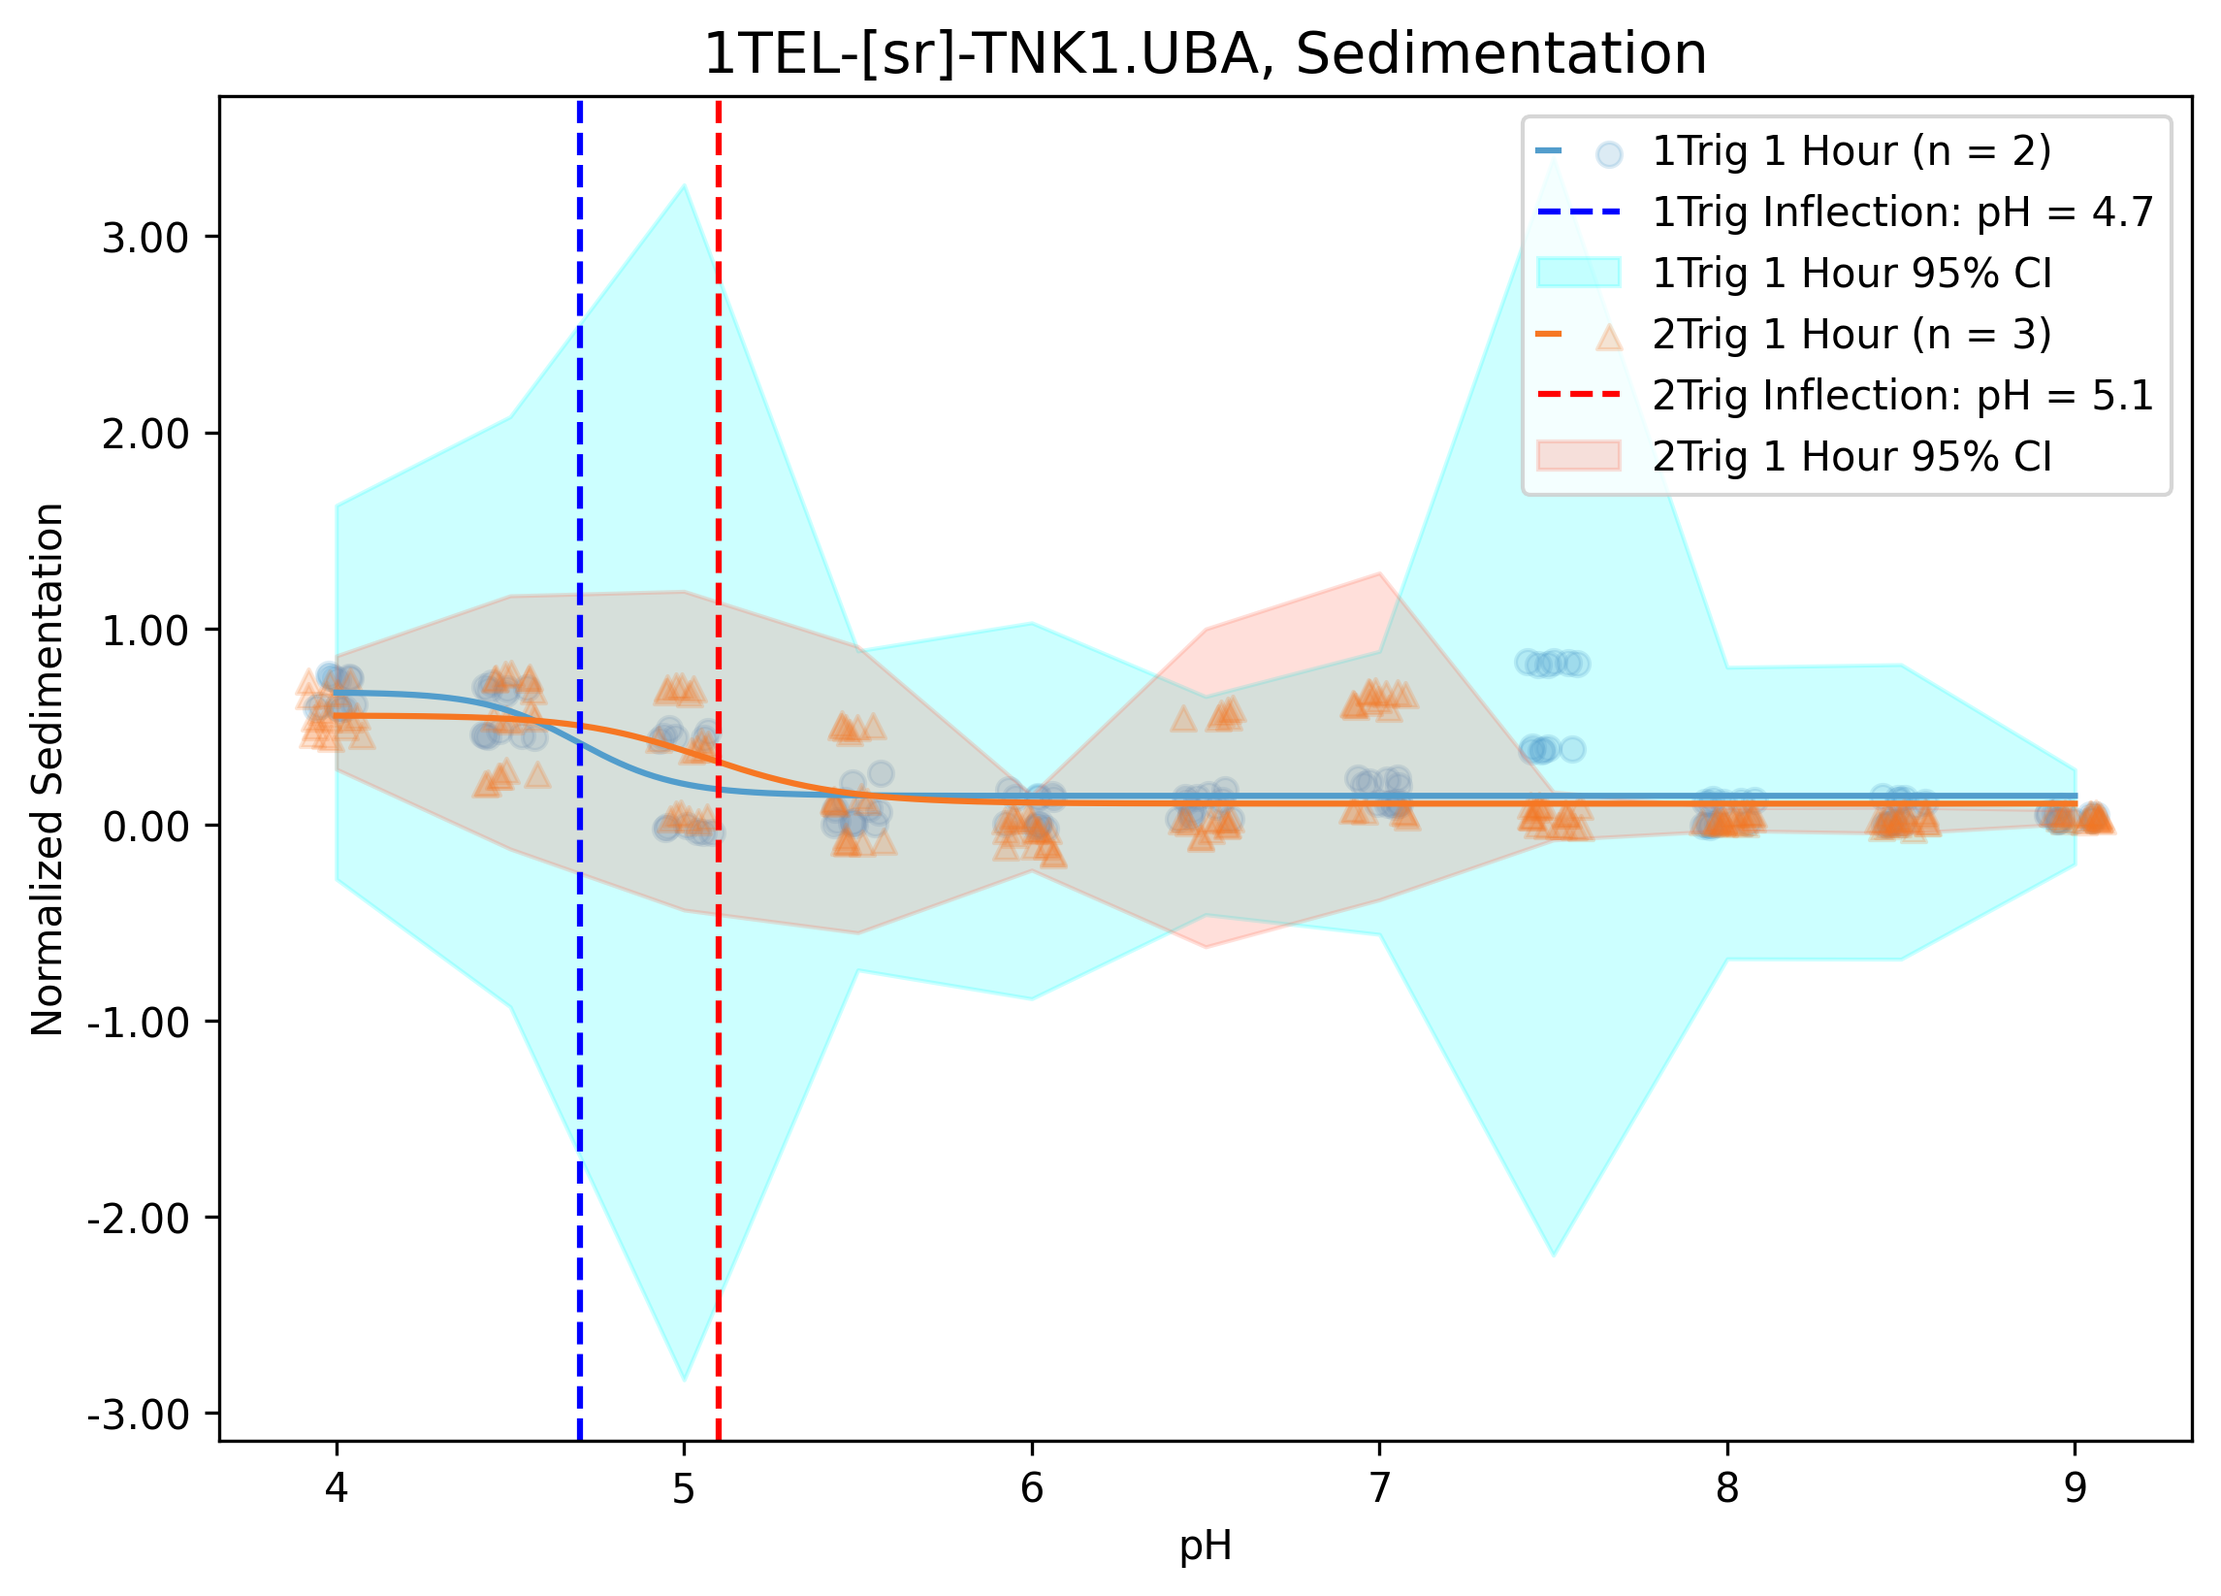
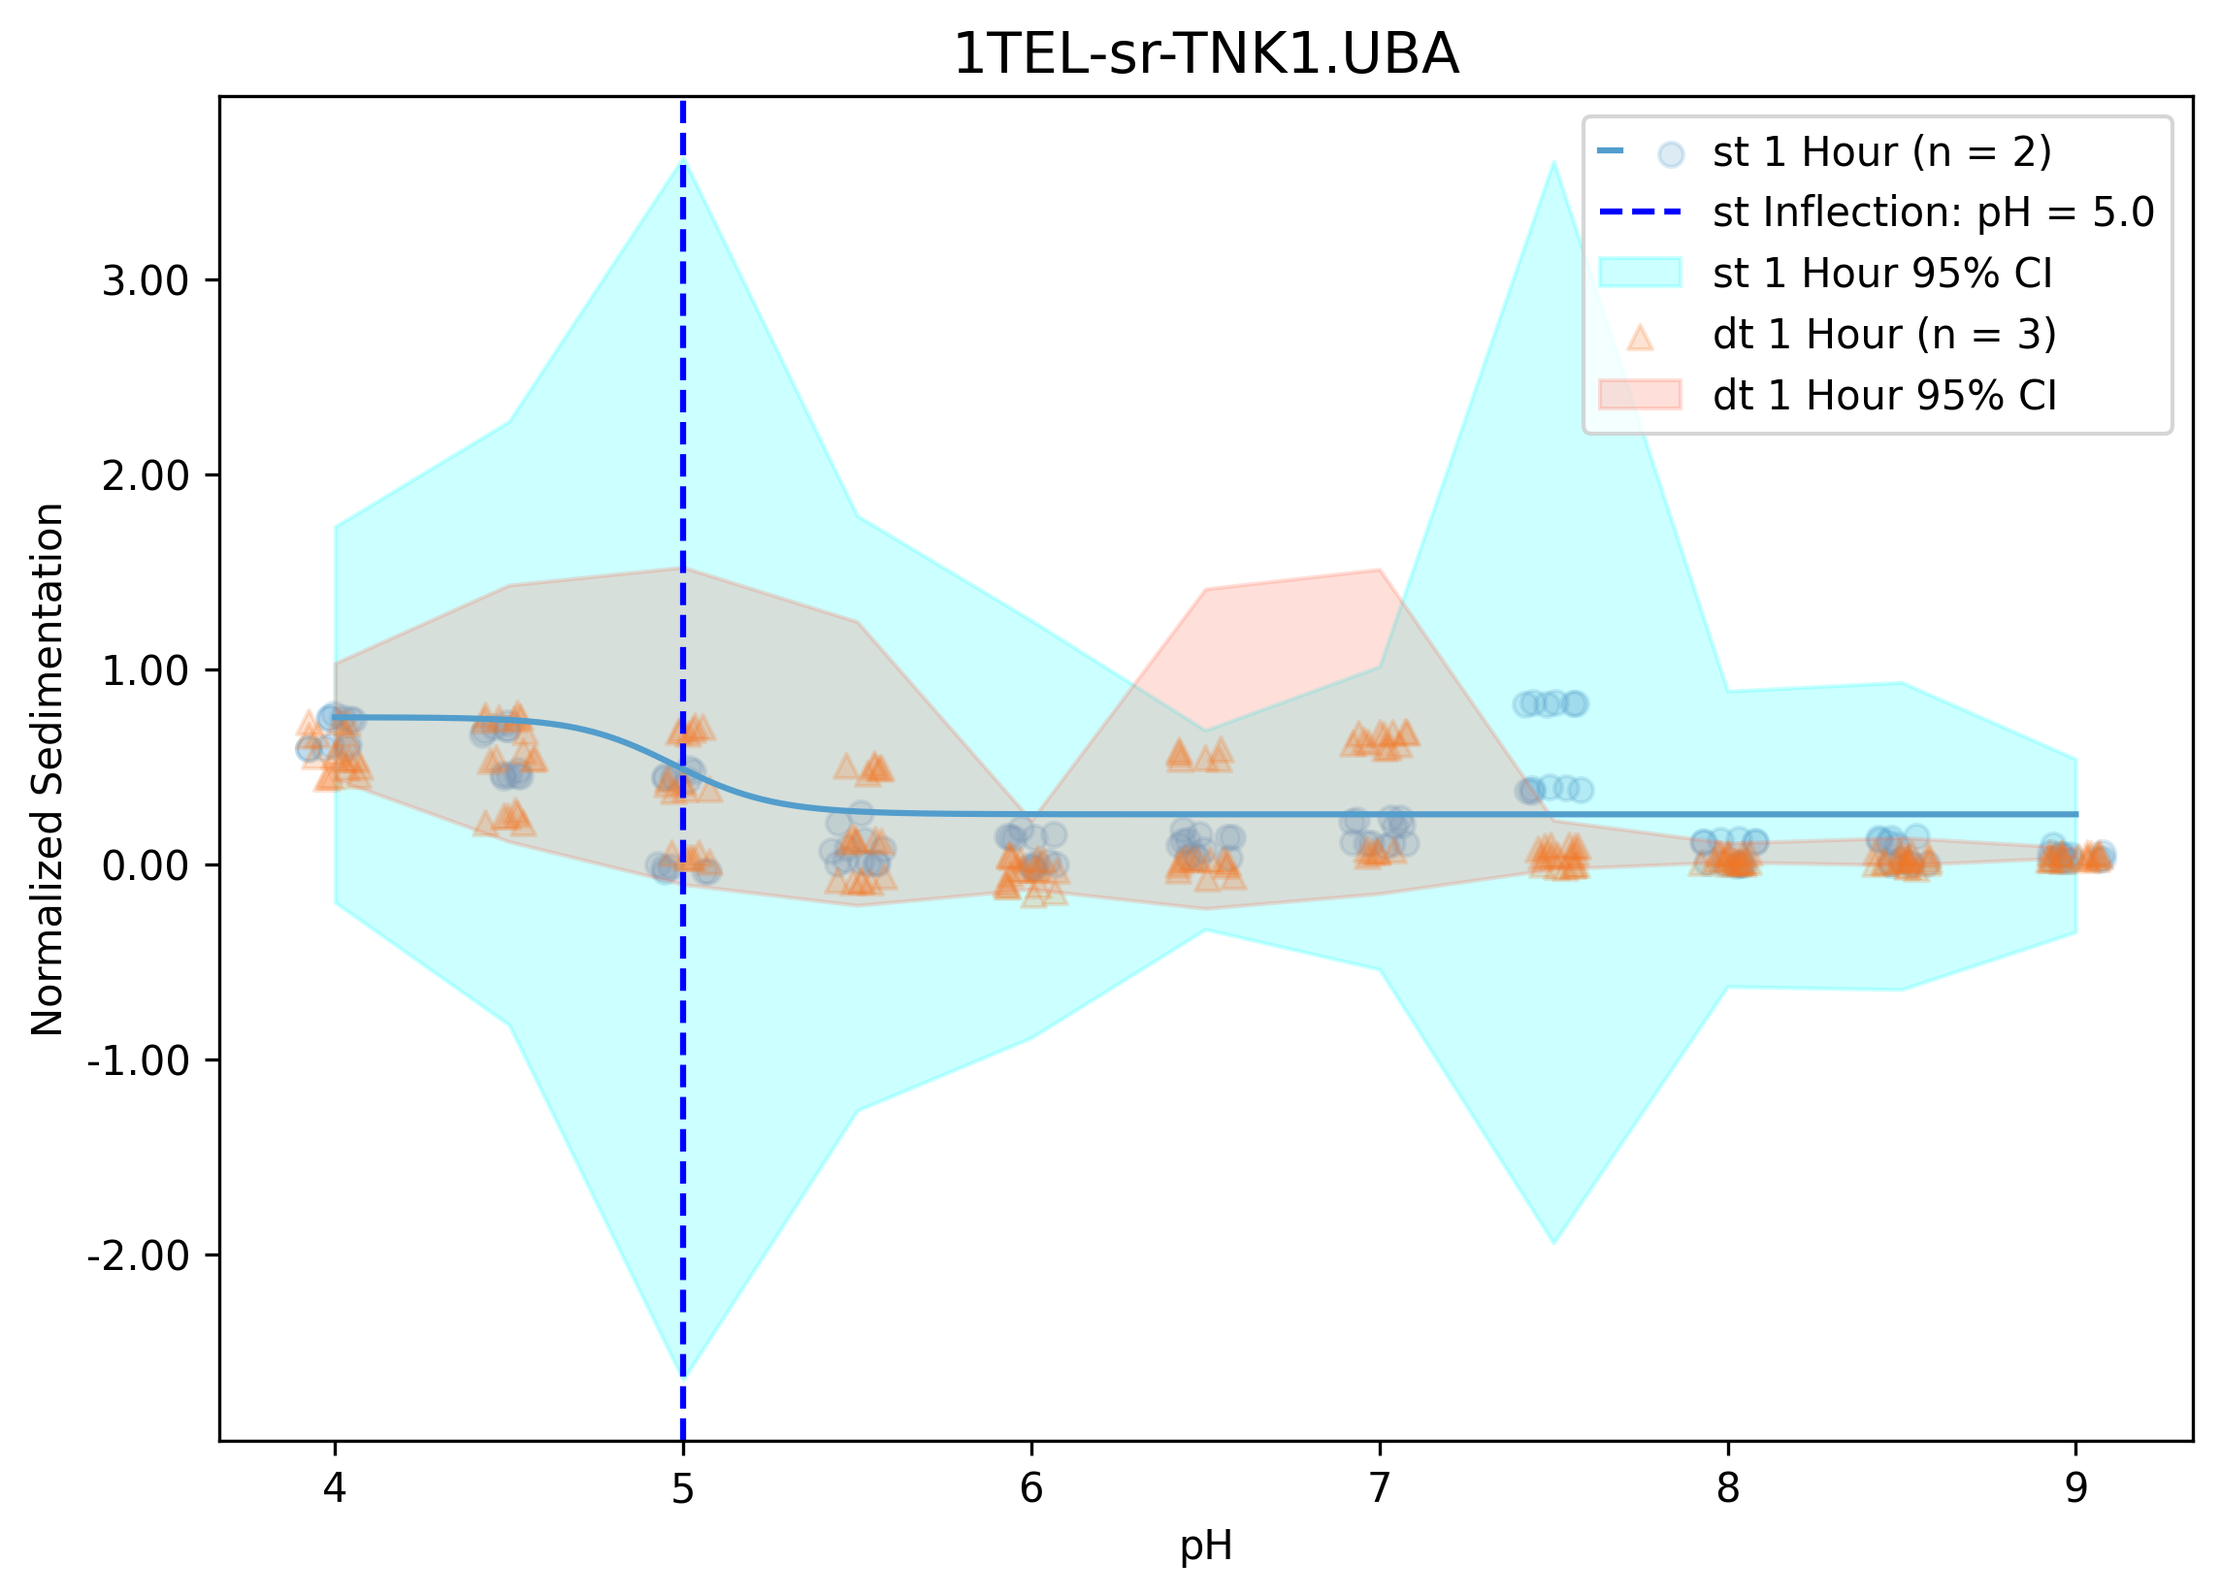
Maxima Confidence Intervals

diff --git a/process.py b/process.py
@@ -85,7 +85,7 @@ def format_chart_title(construct_name: str,multiplicity: int) -> str:
     elif "PA" in parts:
         linker = "PA"
     elif "SR" in parts:
-        linker = "[sr]"
+        linker = "sr"
     elif "TV" in parts:
         linker = "TV"
     # 4) target protein
@@ -132,7 +132,7 @@ def format_legend_label(construct, test_name, protein_constructs, tests, n):
         elif "Knockout" in construct:
             base_label = "Knockout"
         else:
-            base_label = "2Trig" if is_2trig else "1Trig"
+            base_label = "dt" if is_2trig else "st"
         if is_solubility:
             label = f"{base_label} {time_label_from_test(test_name)}"
         else:
@@ -144,7 +144,7 @@ def format_legend_label(construct, test_name, protein_constructs, tests, n):
         elif is_gravity:
             trig_label = "Gravity"
         else:
-            trig_label = "2Trig" if is_2trig else "1Trig"
+            trig_label = "dt" if is_2trig else "st"
         label = f"{trig_label} {time_label_from_test(test_name)}"
     # Case 3: one replicate / one construct / one test
     elif len(protein_constructs) == 1 and len(tests) == 1:
@@ -153,7 +153,7 @@ def format_legend_label(construct, test_name, protein_constructs, tests, n):
         elif is_gravity:
             base_label = "Gravity"
         else:
-            base_label = "2Trig" if is_2trig else "1Trig"
+            base_label = "dt" if is_2trig else "st"
         if is_solubility:
             label = f"{base_label} {time_label_from_test(test_name)}"
         else:
@@ -260,7 +260,10 @@ def statisticize(proteins_and_tests:list,plot_singly=False,plot=False,tailored=F
                     behavior_id = protein_dict[protein_construct][bio_rep].get('Behavior ID', '').strip()
                     data['behavior_id'].append(behavior_id)
                     concentration = float(bio_rep.split("_")[1])
-                    theoretical_max_concentration = concentration/5
+                    if 'Knockout' in protein_construct and date == '7/17/2026':
+                        theoretical_max_concentration=concentration/3.281
+                    else: 
+                        theoretical_max_concentration = concentration/5
 
                     # The "if isinstance" and it's associated "else" statement determines whether this data point needs to be omitted from the curve fitting. If it doesn't,
                     # then return False statements for certain labels. If it does need to be omitted, we return True statements that stick with the data point throughout
@@ -282,7 +285,7 @@ def statisticize(proteins_and_tests:list,plot_singly=False,plot=False,tailored=F
                         value = (theoretical_max_concentration - numeric_replicate) / theoretical_max_concentration
                     # Normalized Absorbance (turbidity plots)
                     else:
-                        value = numeric_replicate * (5/concentration)
+                        value = numeric_replicate/theoretical_max_concentration
                     data['data'].append(value)
                     data['is_starred'].append(is_starred)
                     data['is_single_omitted'].append(is_single_omitted)
@@ -376,13 +379,13 @@ def statisticize(proteins_and_tests:list,plot_singly=False,plot=False,tailored=F
                 display_drops = [item[0] for item in paired]
                 fit_drops = [item[0] for item in fit_paired]
                 if len(display_drops) > 0:
-                    date_means_for_display.append(np.mean(display_drops))
+                    date_means_for_display.append(np.max(display_drops))
                 if len(fit_drops) > 0:
-                    date_means_for_fit.append(np.mean(fit_drops))
+                    date_means_for_fit.append(np.max(fit_drops))
 
             # Create variables that will be displayed on the plot and used for calculating the 95% confidence interval.
             if date_means_for_display:
-                mean_display = np.mean(date_means_for_display)
+                mean_display = np.max(date_means_for_display)
                 constructs_by_pH_by_date[construct][pH]["mean_display"] = mean_display
                 if len(date_means_for_display) > 1:
                     sd_display = np.std(date_means_for_display, ddof=1)
@@ -394,7 +397,7 @@ def statisticize(proteins_and_tests:list,plot_singly=False,plot=False,tailored=F
 
             # Calculate the mean of the data we use to do the curve fitting.
             if date_means_for_fit:
-                constructs_by_pH_by_date[construct][pH]["mean"] = np.mean(date_means_for_fit)
+                constructs_by_pH_by_date[construct][pH]["mean"] = np.max(date_means_for_fit)
     
     # This function returns the 4PL equation that we use to plot the 4PL curve onto the plot. We get the parameters from the "curve_fit" command below.
     def pH_to_absorbance_model_4pl(pH,upper_asymptote,Hill_slope,inflection_point,lower_asymptote):
@@ -568,13 +571,13 @@ def statisticize(proteins_and_tests:list,plot_singly=False,plot=False,tailored=F
                         if is_time_comparison:
                             paired = [item for item in paired if not item[3]]
                         if paired:
-                            subgroup_measurements_by_date[behavior_id][date] = np.mean(
+                            subgroup_measurements_by_date[behavior_id][date] = np.max(
                                 [item[0] for item in paired])
                     for behavior_id, date_means in subgroup_measurements_by_date.items():
                         if not date_means:
                             continue
                         vals = np.array(list(date_means.values()), dtype=float)
-                        mean_val = np.mean(vals)
+                        mean_val = np.max(vals)
                         behavior_groups[behavior_id]['pH_values'].append(float(pH))
                         behavior_groups[behavior_id]['means'].append(mean_val)
                         if len(vals) > 1:
@@ -623,12 +626,13 @@ def statisticize(proteins_and_tests:list,plot_singly=False,plot=False,tailored=F
                         curve_handle_list = plt.plot(pH_linspace,pH_to_absorbance_model_4pl(pH_linspace, *best_fit_parameters),color=behavior_colors[behavior_id],linestyle="-")
                         line_handle = curve_handle_list[0]
                         if group_ci_pH:
+                            ci_color = "cyan" if behavior_id == behavior_ids_present[0] else "blue"
                             ci_handle = plt.fill_between(
                                 group_ci_pH, group_ci_lower, group_ci_upper,
-                                color=behavior_colors[behavior_id], alpha=0.12)
+                                color=ci_color, alpha=0.12)
                             handles_and_labels[ci_handle] = f"{behavior_label_from_behavior_id(behavior_id)} 95% CI"
                             legend_groups["group1_ci"].append(ci_handle)
-                        inflection_handle = plt.axvline(inflection_value,color=behavior_colors[behavior_id],linestyle=":")
+                        inflection_handle = plt.axvline(inflection_value,color=behavior_colors[behavior_id],linestyle="--")
                         inflection_handles_and_labels[inflection_handle] = (
                             f"{behavior_label_from_behavior_id(behavior_id)} Inflection: "
                             f"{format_inflection_label('', inflection_value).replace(': ', '').strip()}")
@@ -679,22 +683,22 @@ def statisticize(proteins_and_tests:list,plot_singly=False,plot=False,tailored=F
                             ci_label = f"Knockout {time_label + ' ' if time_label else ''}95% CI"
                         elif test_name in ["A280_48hr", "A280_72hr"] and "2Trig" not in construct:
                             ci_handle = plt.fill_between(pH_values_display, ci_lower_bounds, ci_upper_bounds, color='pink', alpha=0.20)
-                            ci_label = f"1Trig {time_label_from_test(test_name)} 95% CI"
+                            ci_label = f"st {time_label_from_test(test_name)} 95% CI"
                         elif test_name in ["A280_48hr", "A280_72hr"] and "2Trig" in construct:
                             ci_handle = plt.fill_between(pH_values_display, ci_lower_bounds, ci_upper_bounds, color='mediumpurple', alpha=0.20)
-                            ci_label = f"2Trig {time_label_from_test(test_name)} 95% CI"
+                            ci_label = f"dt {time_label_from_test(test_name)} 95% CI"
                         elif "2Trig" in construct and test_name == 'A280_1hr':
                             ci_handle = plt.fill_between(pH_values_display, ci_lower_bounds, ci_upper_bounds, color='tomato', alpha=0.20)
-                            ci_label = "2Trig 1 Hour 95% CI"
+                            ci_label = "dt 1 Hour 95% CI"
                         elif "2Trig" in construct:
                             ci_handle = plt.fill_between(pH_values_display, ci_lower_bounds, ci_upper_bounds, color='tomato', alpha=0.20)
-                            ci_label = "2Trig 95% CI"
+                            ci_label = "dt 95% CI"
                         elif test_name == 'A280_1hr' and "2Trig" not in construct:
                             ci_handle = plt.fill_between(pH_values_display, ci_lower_bounds, ci_upper_bounds, color='cyan', alpha=0.20)
-                            ci_label = "1Trig 1 Hour 95% CI"
+                            ci_label = "st 1 Hour 95% CI"
                         else:
                             ci_handle = plt.fill_between(pH_values_display, ci_lower_bounds, ci_upper_bounds, color='cyan', alpha=0.20)
-                            ci_label = "1Trig 95% CI"
+                            ci_label = "st 95% CI"
                         handles_and_labels[ci_handle] = ci_label
                         group_prefix = classify_legend_group(construct, test_name, protein_constructs, tests)
                         legend_groups[f"{group_prefix}_ci"].append(ci_handle)
@@ -848,7 +852,7 @@ def statisticize(proteins_and_tests:list,plot_singly=False,plot=False,tailored=F
                     for pH in constructs_by_pH_by_date[construct_key]
                     for d in constructs_by_pH_by_date[construct_key][pH]["dates"]})
                 date_text = replicate_dates[0] if len(replicate_dates) == 1 else ", ".join(replicate_dates)
-                plt.title(f"{format_chart_title(construct,len(protein_constructs))}, {assay}\nReplicate Date: {date_text}",fontsize=14)
+                plt.title(f"{format_chart_title(construct,len(protein_constructs))}\nReplicate Date: {date_text}",fontsize=14)
                 plt.ylabel(y_axis)
                 plt.xlabel("pH")
                 if any_starred_points:
@@ -1002,12 +1006,12 @@ def statisticize(proteins_and_tests:list,plot_singly=False,plot=False,tailored=F
                 if len(inflection_points_1trig) >= 1:
                     mean_1trig = np.mean(inflection_points_1trig)
                     inflection_1 = plt.axvline(mean_1trig, color=color_1trig, linestyle="--")
-                    inflection_handles_and_labels[inflection_1] = format_inflection_label("1Trig Inflection",mean_1trig)
+                    inflection_handles_and_labels[inflection_1] = format_inflection_label("st Inflection",mean_1trig)
                     legend_groups["group1_inflection"].append(inflection_1)
                 if len(inflection_points_2trig) >= 1:
                     mean_2trig = np.mean(inflection_points_2trig)
                     inflection_2 = plt.axvline(mean_2trig, color=color_2trig, linestyle="--")
-                    inflection_handles_and_labels[inflection_2] = format_inflection_label("2Trig Inflection",mean_2trig)
+                    inflection_handles_and_labels[inflection_2] = format_inflection_label("dt Inflection",mean_2trig)
                     legend_groups["group2_inflection"].append(inflection_2)
                 knockout_inflection_points = (
                     inflection_points_knockout_48hr
@@ -1032,14 +1036,14 @@ def statisticize(proteins_and_tests:list,plot_singly=False,plot=False,tailored=F
                 assay = 'Sedimentation'
             if len(protein_constructs) == 1:
                 protein_title = format_chart_title(protein_constructs[0],len(protein_constructs))
-                plt.title(f"{protein_title}, {assay}", fontsize = 14)
+                plt.title(f"{protein_title}", fontsize = 14)
                 plt.ylabel(y_axis)
                 plt.xlabel("pH")
             else:
                 if (len(protein_constructs) == 2 or is_alone_knockout_comparison) and len(tests) == 1:
                     # Use the first construct as the base protein title
                     protein_title = format_chart_title(protein_constructs[0],len(protein_constructs))
-                    plt.title(f"{protein_title}, {assay}", fontsize = 14)
+                    plt.title(f"{protein_title}", fontsize = 14)
                     plt.ylabel(y_axis)
                     plt.xlabel("pH")
             # add asterisk legend entry LAST so it appears on bottom row
